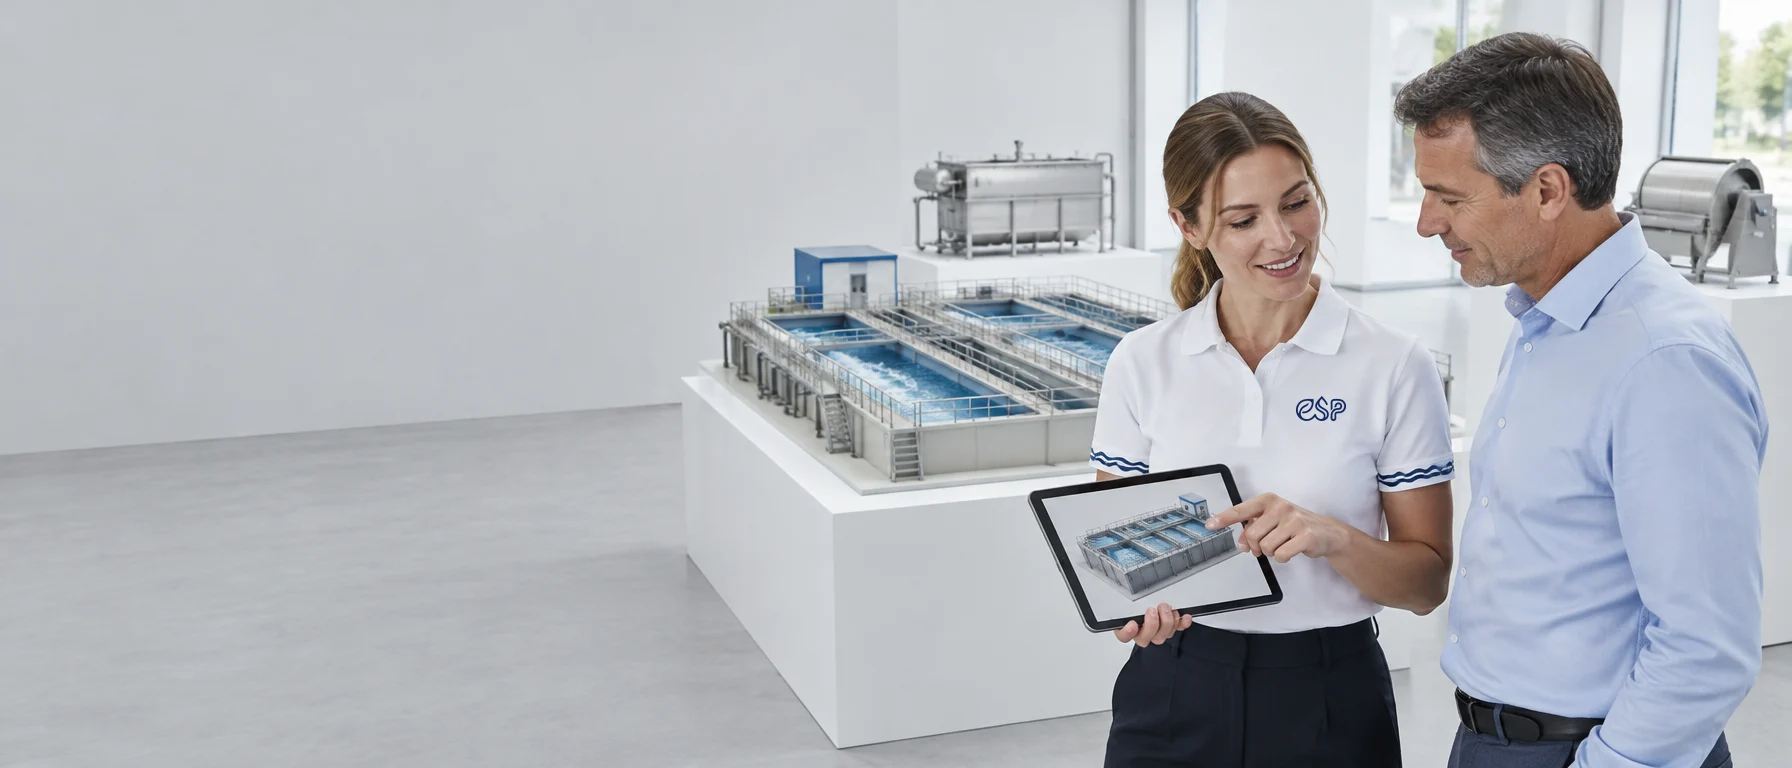
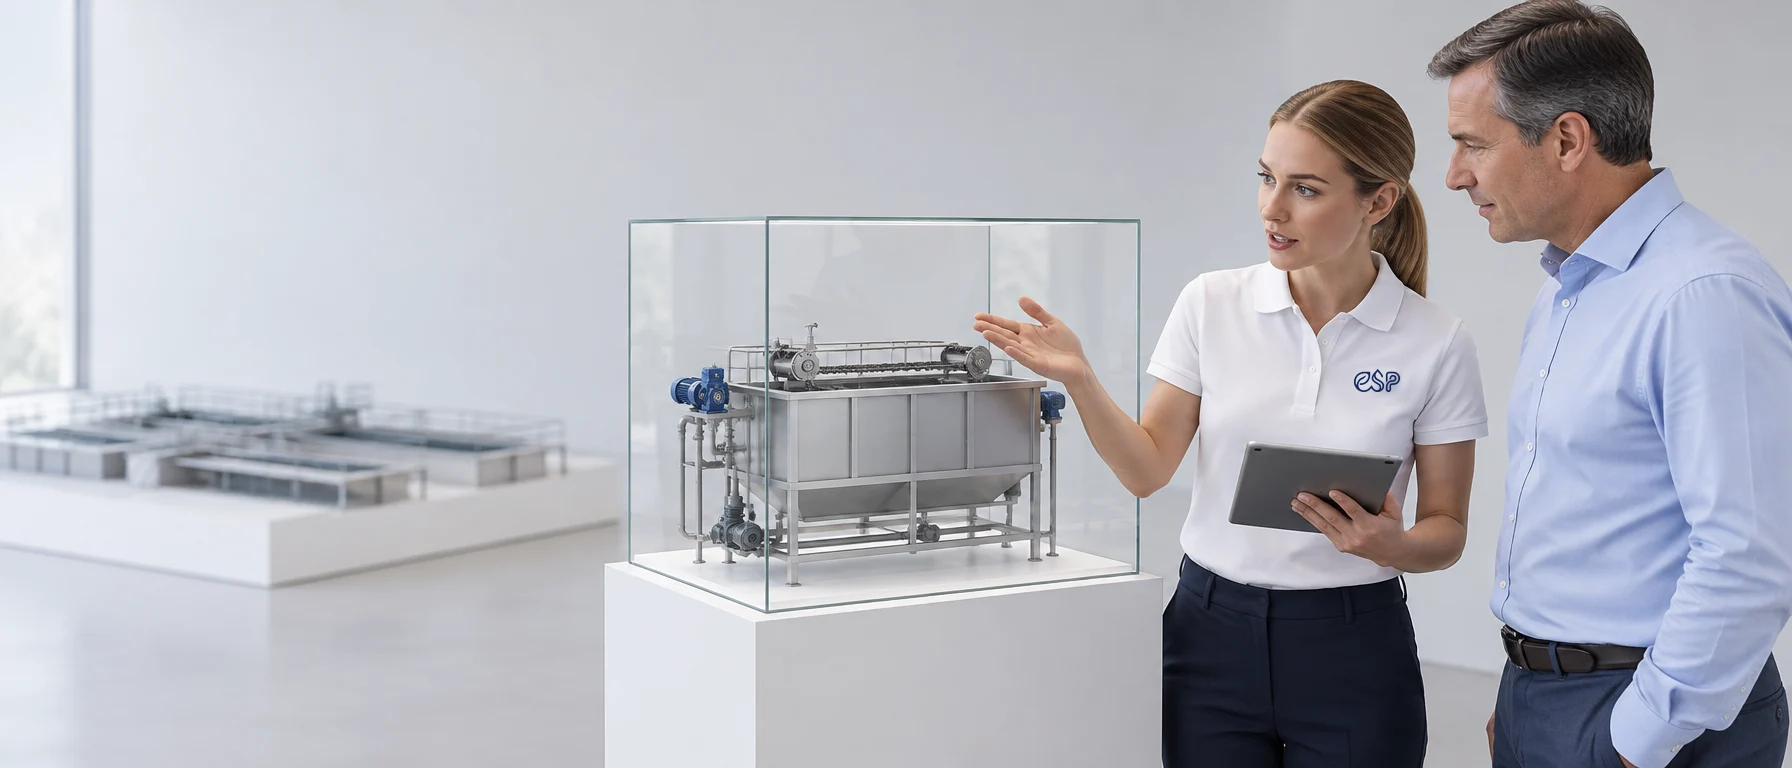
Контакты: баннер с макетом флотатора под стеклом, планшет к заказчику, поло только с логотипом

diff --git a/pages/contacts.vue b/pages/contacts.vue
@@ -9,7 +9,7 @@
       <img
         class="ct-banner__img"
         src="/images/contacts/support-banner.webp"
-        alt="Инженер ESP в фирменном поло показывает заказчику 3D-модель станции на фоне макетов очистных сооружений"
+        alt="Инженер ESP рассказывает заказчику о флотаторе: макет установки под стеклом на белой тумбе"
         width="1792"
         height="768"
         fetchpriority="high"
@@ -344,11 +344,14 @@ const submitForm = async (e) => {
 /* Apple Contact: белая страница, карточки со скруглением 18px на #f5f5f7,
    отделы — сетка с волосяными линиями, поля формы в стиле apple.com. */
 /* Баннер «как DJI Support»: фото на всю ширину, текст на светлой части слева */
-.ct-banner { position: relative; display: flex; align-items: center; height: clamp(440px, 36vw, 680px); margin-top: var(--dj-header-h, 44px); overflow: hidden; background: linear-gradient(180deg, #bfc3c6 0%, #bcc0c3 42%, #b6babd 58%, #b2b4b8 67%, #b7bbbe 76%, #b7bbbe 100%); }
+.ct-banner { position: relative; display: flex; align-items: center; height: clamp(440px, 36vw, 680px); margin-top: var(--dj-header-h, 44px); overflow: hidden; background: linear-gradient(180deg, #d6d9e0 0%, #dce1e9 20%, #dbe1ea 55%, #e0e2e8 68%, #e3e7ef 78%, #cacdd5 100%); }
 /* Фото прижато вправо; слева стена продолжается фоном в тон — под текстом чистое поле,
    макеты станций и люди видны полностью */
 .ct-banner__img { position: absolute; top: 0; right: 0; height: 100%; width: auto; max-width: none; aspect-ratio: 1792 / 768; -webkit-mask-image: linear-gradient(90deg, transparent 0%, #000 12%); mask-image: linear-gradient(90deg, transparent 0%, #000 12%); }
 .ct-banner__wrap { position: relative; width: 100%; }
+/* Светлая дымка в тон стены под текстом: размытый макет на фоне не спорит с заголовком */
+.ct-banner::after { content: ''; position: absolute; inset: 0; pointer-events: none; background: linear-gradient(90deg, rgba(220, 225, 233, 0.92) 0%, rgba(220, 225, 233, 0.82) 36%, rgba(220, 225, 233, 0) 52%); }
+.ct-banner__wrap { z-index: 1; }
 .ct-banner__txt { max-width: min(480px, 33%); }
 .ct-banner__h { margin-top: 10px; font-size: clamp(34px, 3.4vw, 56px); font-weight: 600; line-height: 1.06; letter-spacing: -0.015em; color: #1d1d1f; }
 .ct-banner__lede { margin-top: 16px; font-size: clamp(17px, 1.4vw, 21px); line-height: 1.42; color: #424245; }
@@ -356,7 +359,8 @@ const submitForm = async (e) => {
 /* Планшет и телефон: фото сверху целиком, текст под ним — ничего не перекрывает людей */
 @media (max-width: 1068px) {
   .ct-banner { display: block; height: auto; background: #f5f5f7; }
-  .ct-banner__img { position: static; display: block; width: 100%; height: auto; aspect-ratio: 16 / 7; object-position: 80% 30%; -webkit-mask-image: none; mask-image: none; }
+  .ct-banner::after { display: none; }
+  .ct-banner__img { position: static; display: block; width: 100%; height: auto; aspect-ratio: 16 / 7; object-position: 74% 30%; -webkit-mask-image: none; mask-image: none; }
   .ct-banner__txt { max-width: 640px; padding: 32px 0 40px; }
 }
 @media (max-width: 734px) {
